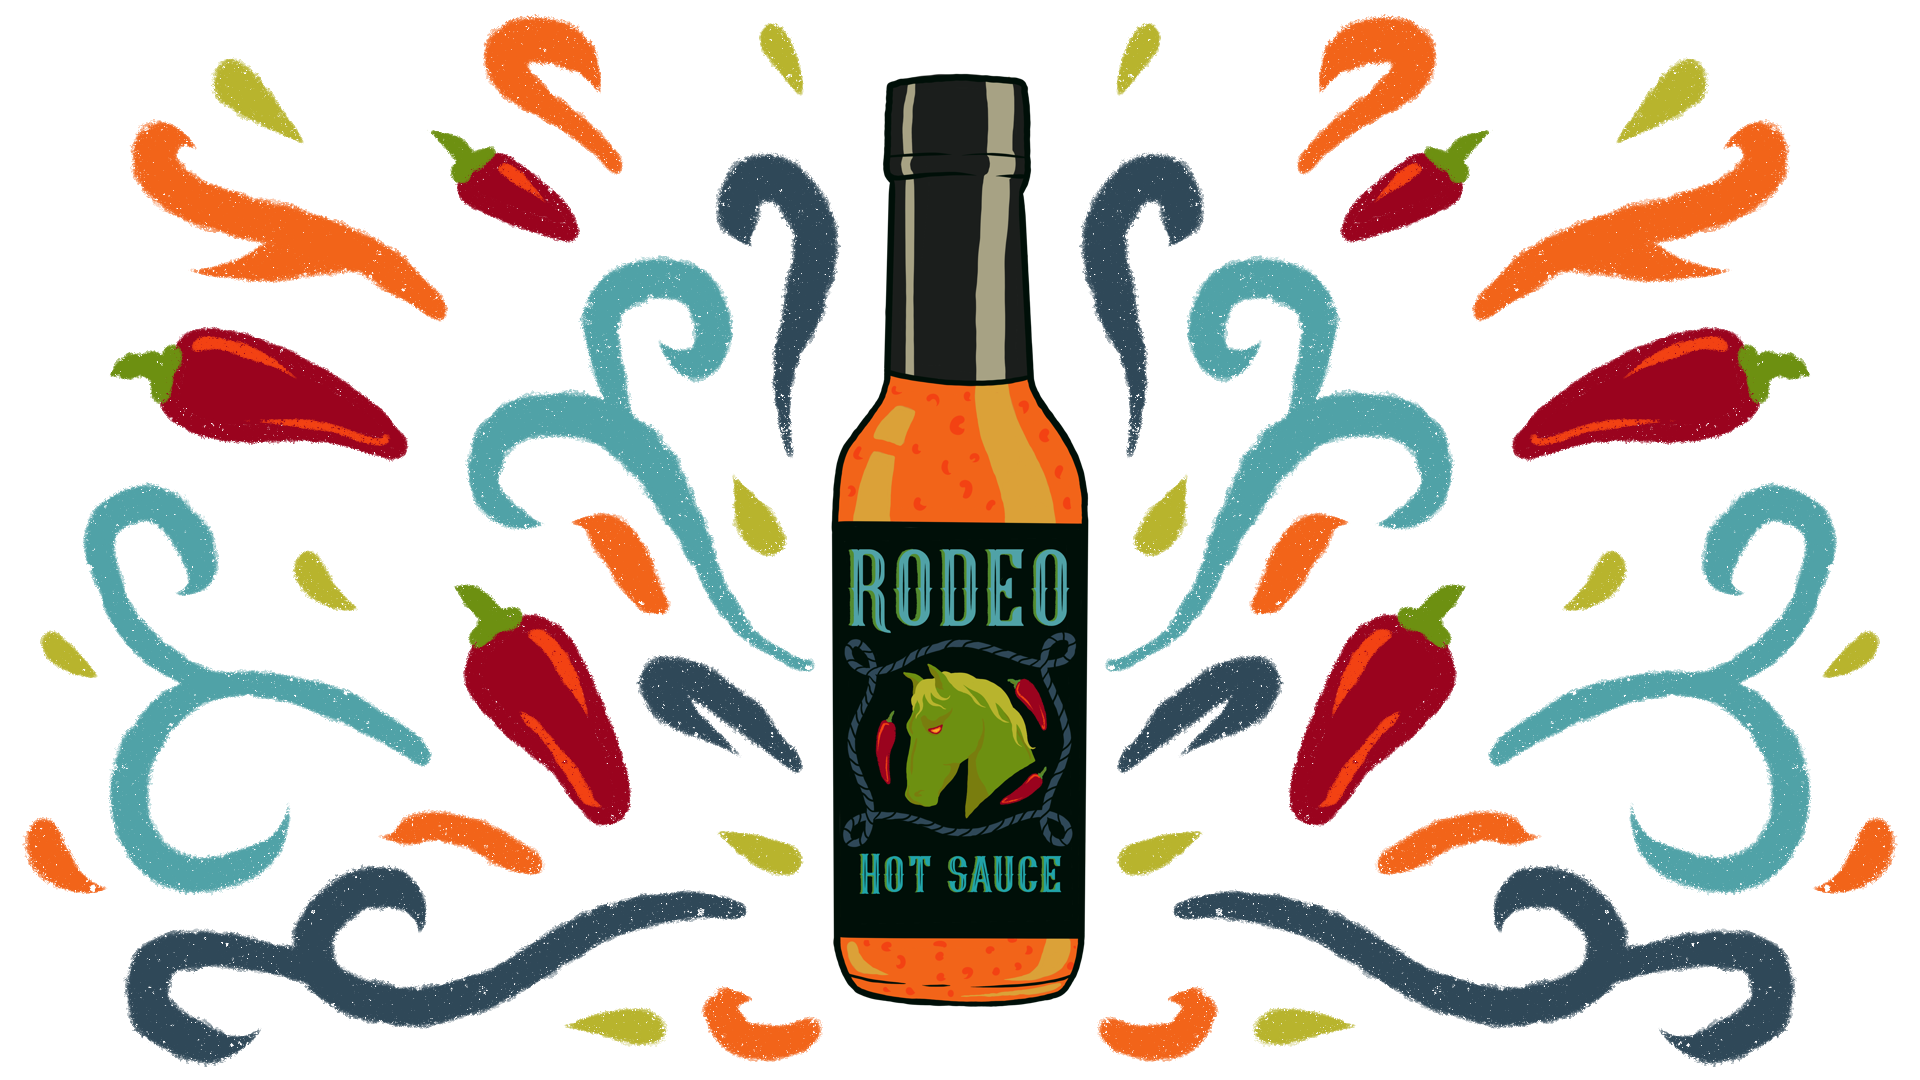
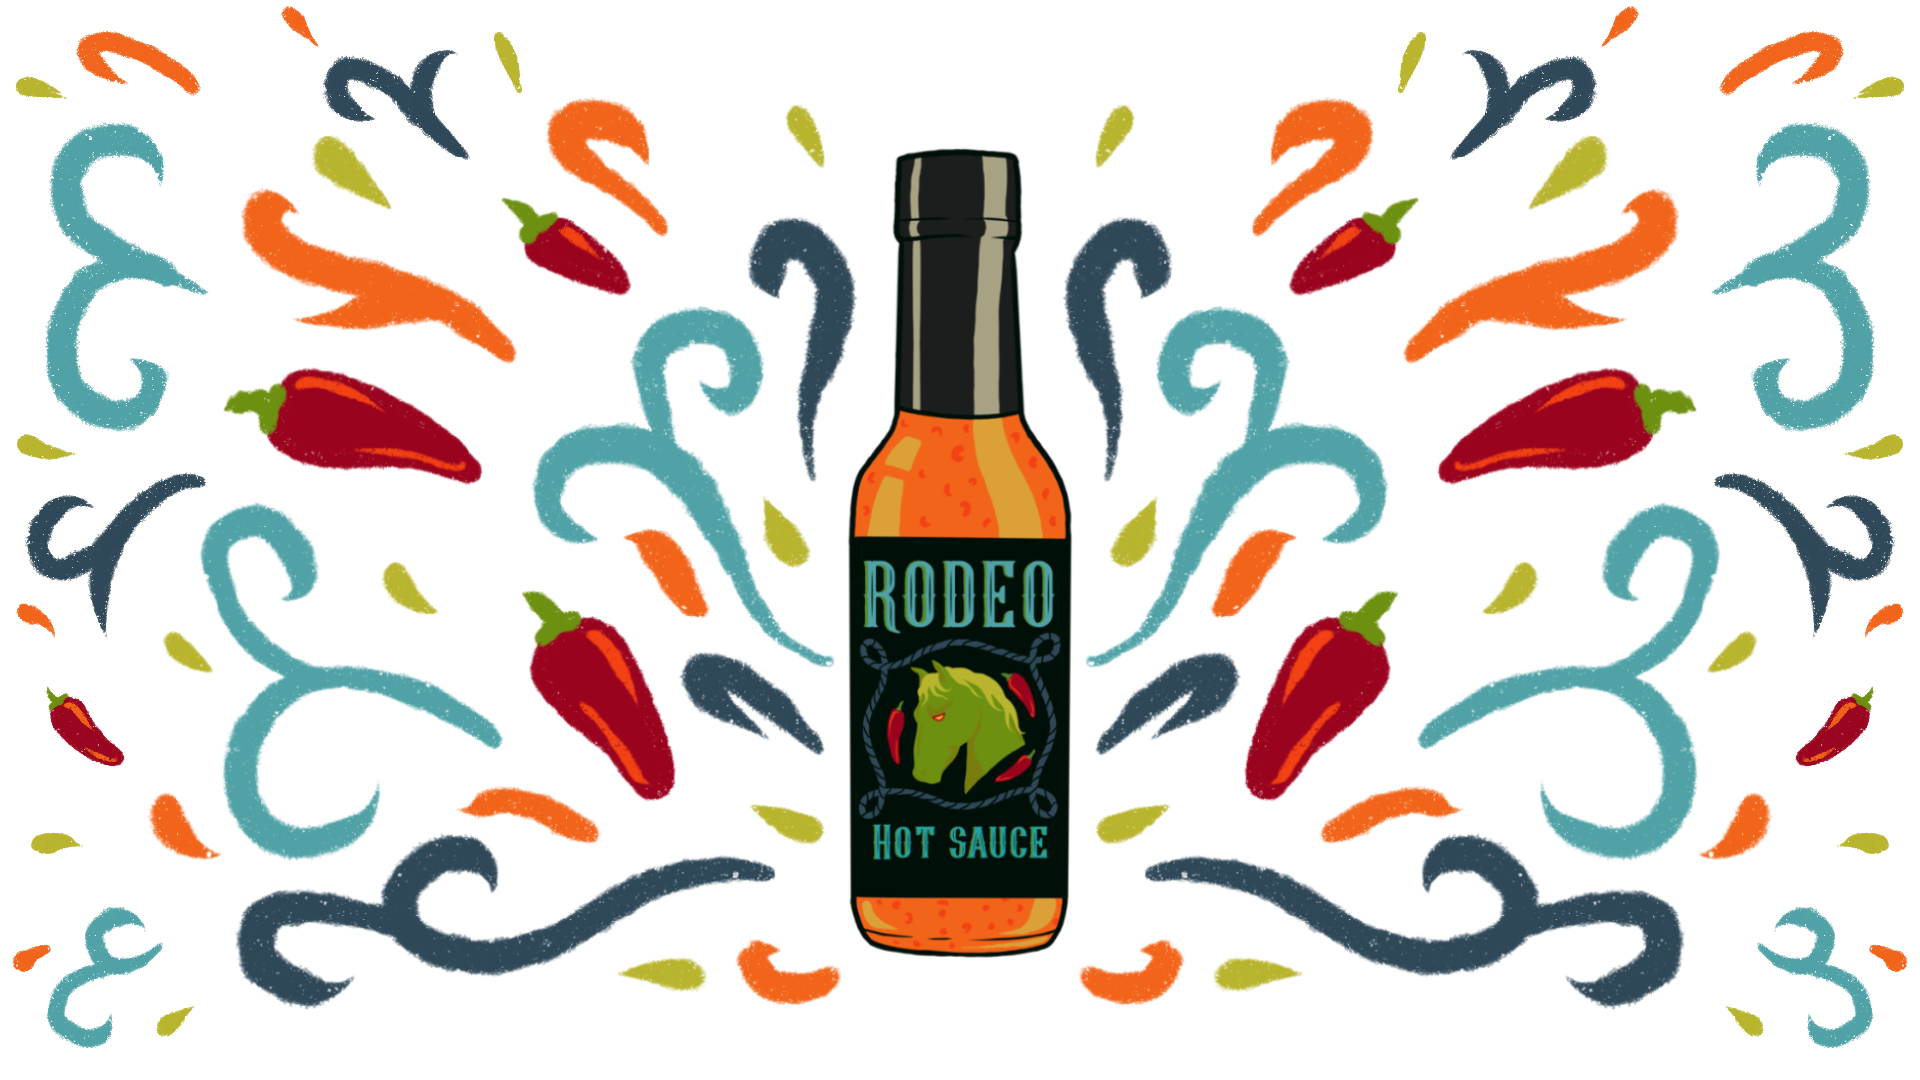
Upload new hero img and bottle img

diff --git a/static/css/style.css b/static/css/style.css
@@ -200,7 +200,7 @@ nav {
     max-height: 600px;
     object-fit: cover;
     position: absolute;
-    right: 0;
+    
 }
 
 /*-----------------------------------------------------MEDIA QUERIES */
